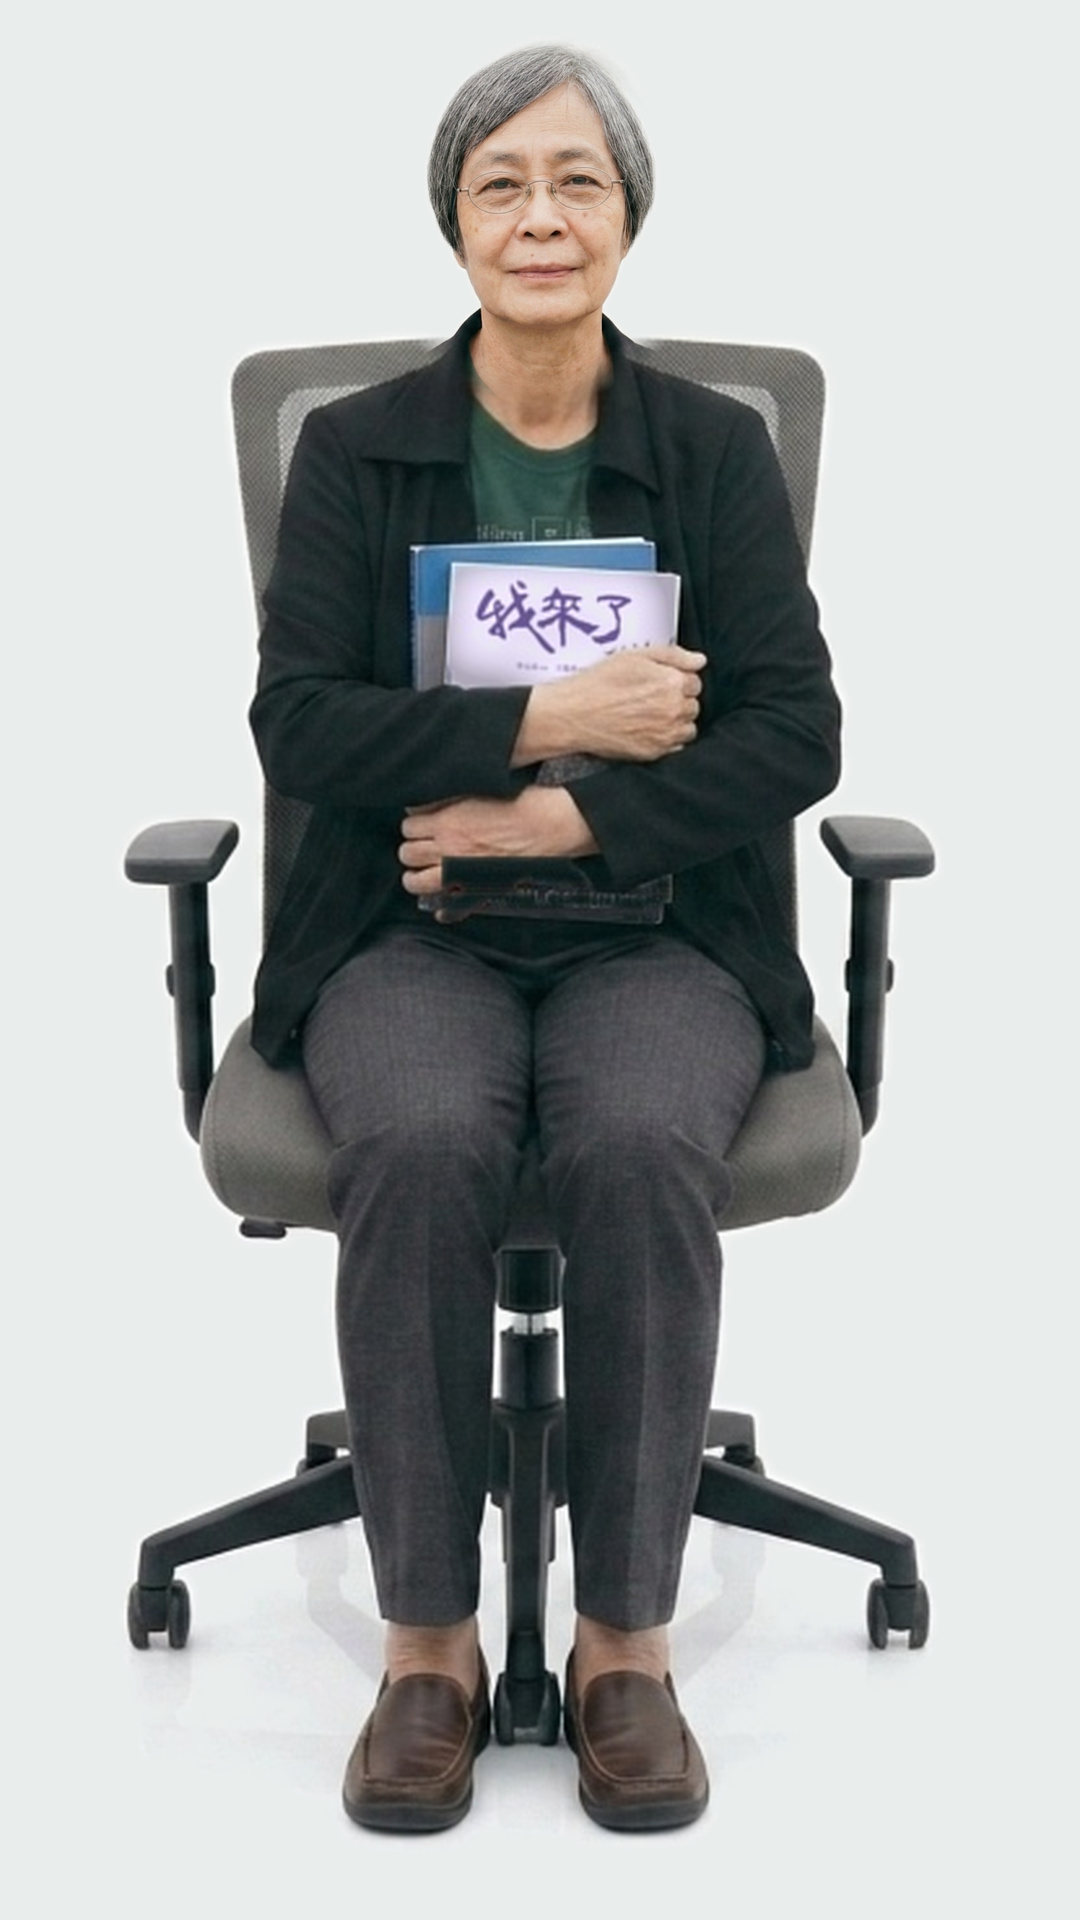
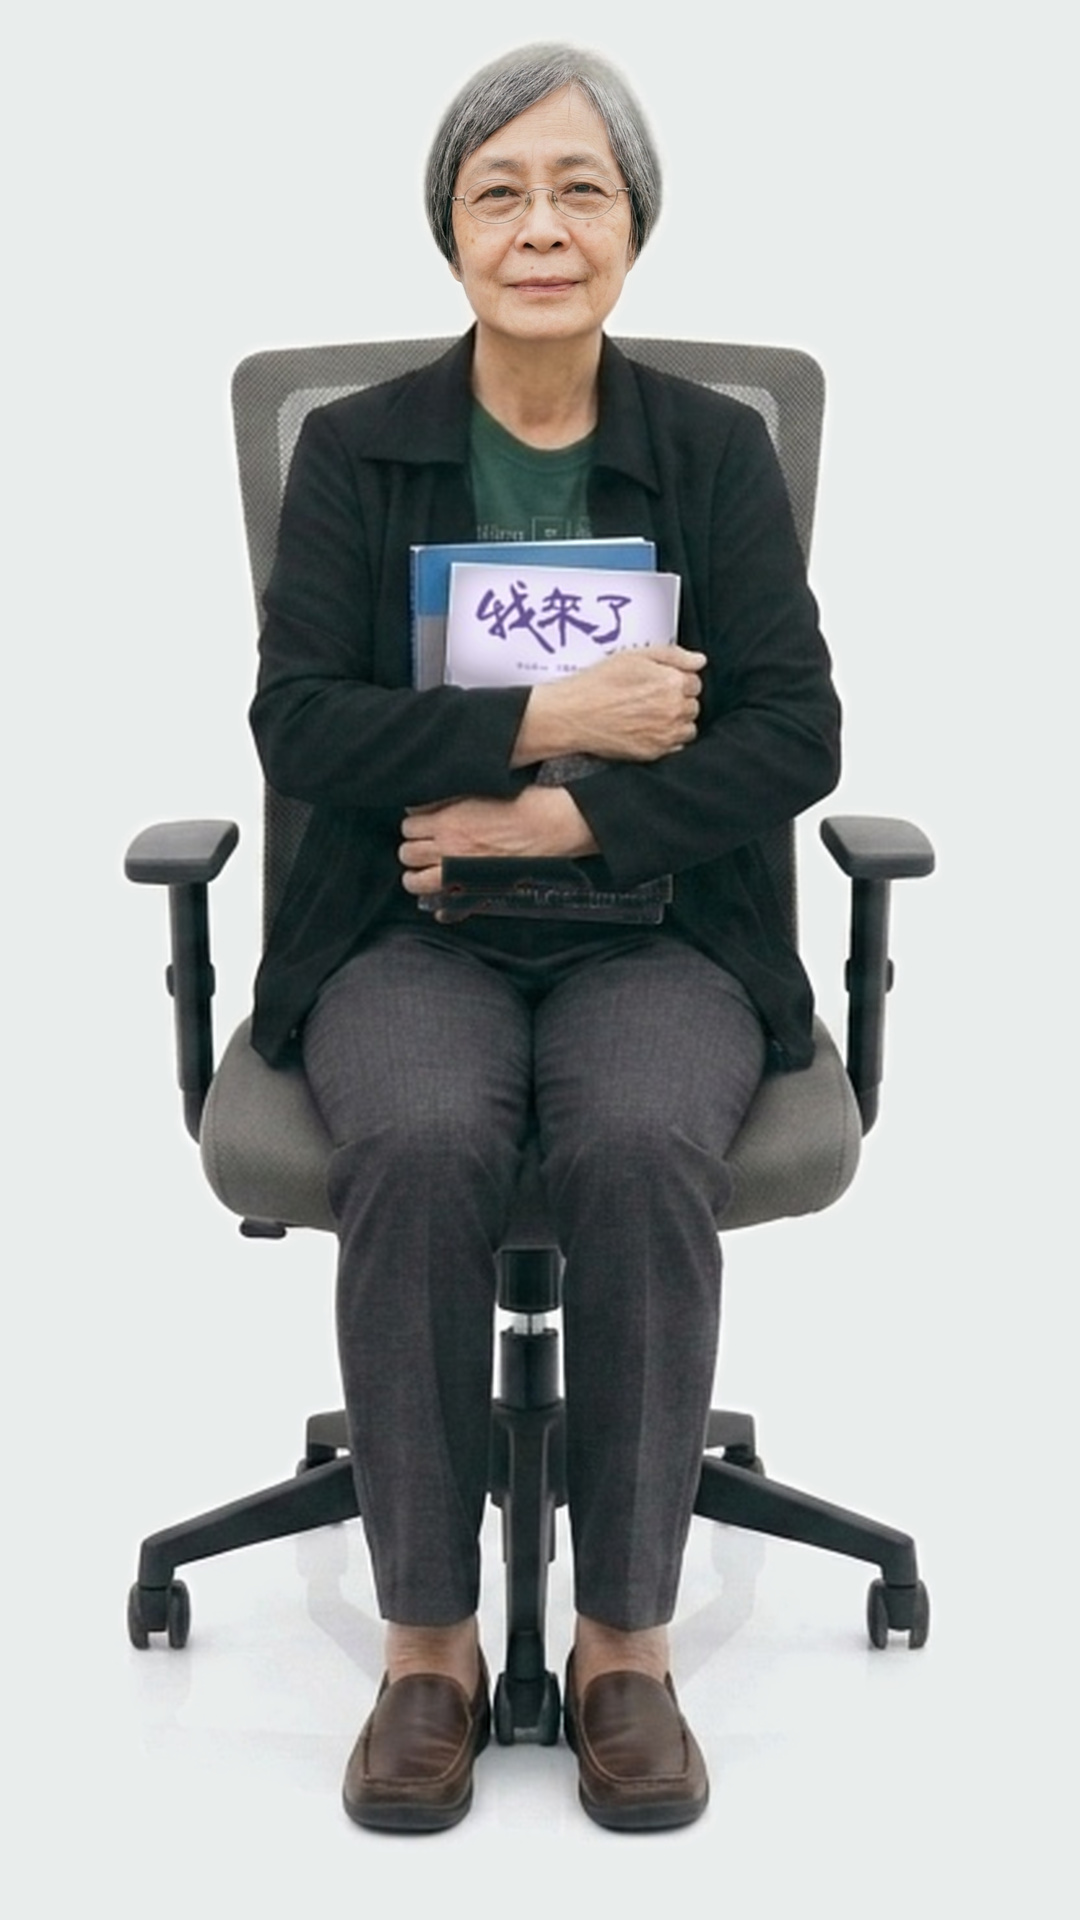
fix(live): 修掉脖子變細柱子與頭髮四周的光暈
兩個獨立的錯誤疊在一起。

1) 🔴 兩張圖量了不同的地標。照片層的縮放是把「照片的髮頂→脖子（584px）」
   對到「AI 的髮頂→**下巴**（101px × 2.596 = 262）」——一個量到脖子、一個
   量到下巴。結果照片的頭比 AI 的小 6%，AI 的頭髮比照片的頭大一圈，
   露在外面的部分被照片的背景蓋掉，畫面上就是頭髮四周一圈淺色光暈。
   改成兩邊都用「髮頂→脖子最窄處」：107 × 2.596 = 278。
   影片框跟著重算成 916.3×515.4 @ (75.7, 16.4)。

2) 🔴 橢圓太大，那圈過渡壓在衣領上。原本 121×136，r=1 的底邊在 y=351，
   加上烘焙的外圈一路到 y=405——而照片的衣領跟 AI 的衣領位置與形狀都不同，
   於是脖子被切成一根細柱子、兩側各一道硬邊。
   收成 106×128（底邊 y=328），脖子以下整段都是坐姿圖自己的，連得起來。
   烘焙外圈也從 1.15/1.40 收到 1.02/1.12，讓靜態過渡只落在臉頰與頭髮邊緣。

⚠ 橢圓不能再往上收：下巴在 y≈304，講話時下顎要跟著動，下巴落在 r>1
就會變成「嘴巴在動、下巴不動」。可動的窗口只有 304~328 這 24px。

Changed region(s): [[0.3972, 0.0312, 0.6111, 0.2188]]

diff --git a/components/avatar/full-body-stage.tsx b/components/avatar/full-body-stage.tsx
@@ -33,7 +33,12 @@ export const FULL_BODY_SRC = "/avatar-fullbody.jpg";
  * 串流（與串流接上前的 poster）在舞台框裡的位置，單位是舞台框的百分比。
  *
  * 底圖的頭部座標是這一切的基準（1080×1920）：
- *   頭頂 y=44、下巴 y=306、頭中心 x=541 → 頭高 262、臉中心 y=175
+ *   髮頂 y=44、脖子最窄處 y=322、頭中心 x=541 → 頭高 278、臉中心 y=183
+ *
+ * 🔴 **兩張圖一定要量同一組地標。** 前一版把「照片的髮頂→脖子（584px）」
+ * 對到「AI 的髮頂→**下巴**（101px）」，兩個不同的地標，結果照片的頭比 AI 的
+ * 小 6%——畫面上就是頭髮四周浮出一圈淺色光暈（AI 的頭髮比照片的頭大一圈，
+ * 露在外面的部分被照片的背景蓋掉了）。現在兩邊都用「髮頂→脖子最窄處」。
  *
  * 🔴 這四個數字是**實測串流本身**量出來的，不是照上傳照片推的。
  * 第一版照「臉置中、頭高佔 45%」推，實際接上去整顆頭高了 83px——
@@ -64,10 +69,10 @@ export const FULL_BODY_SRC = "/avatar-fullbody.jpg";
  * 椅子，那個處理已經移除。哪天改回下緣漸層，這個坑會回來。
  */
 export const STAGE_BOX = {
-  left: "9.44%",
-  top: "0.94%",
-  width: "80.04%",
-  height: "25.32%",
+  left: "7.01%",
+  top: "0.86%",
+  width: "84.85%",
+  height: "26.85%",
 } as const;
 
 /**
@@ -129,14 +134,22 @@ export const STAGE_BOX = {
  * 附帶好處：影片的不透明背景被橢圓擋在外面，不再抹掉椅背，所以底圖不必再
  * 挖掉椅子的上半截，椅背是完整的。
  *
- * 幾何（底圖 1080×1920 座標）：臉中心 (540, 215)、橢圓半徑 121 × 136，
- * r ≤ 0.7 全實心、r = 1 全透明。換算成影片框（864.4×486.2 @ 102,18）的百分比
- * 就是下面那組數字。換 avatar 或換底圖都要重算。
+ * 幾何（底圖 1080×1920 座標）：橢圓中心 (541, 200)、半徑 106 × 128，
+ * r ≤ 0.7 全實心、r = 1 全透明，r=1 的底邊落在 y=328。
+ * 換算成影片框（916.3×515.4 @ 75.7,16.4）的百分比就是下面那組數字。
  *
- * ⚠ 不要把橢圓放大到碰得到脖子以下：一碰到衣領就會把上面那三個問題全部叫回來。
+ * 🔴 **橢圓不可以往下長。** 前一版是 121×136（底邊 y=351），加上烘焙的外圈
+ * 一路到 y=405，於是那圈過渡壓在**衣領**上——照片的衣領跟 AI 的衣領位置、
+ * 形狀都不一樣，畫面上就是脖子變成一根細柱子、兩側各一道硬邊。
+ * 現在收到 y=328：脖子以下整段都是坐姿圖自己的，連得起來。
+ * ⚠ 但也不可以再往上收：下巴在 y≈304，講話時下顎要跟著動，
+ * 下巴一旦落在 r>1 就會變成「嘴巴在動、下巴不動」。可動的窗口只有這 24px。
+ *
+ * ⚠ 烘焙的外圈也收緊了（1.15/1.40 → 1.02/1.12）。外圈越寬，靜態的
+ * 照片↔AI 過渡就跨過越多不一樣的東西；收緊之後它只落在臉頰與頭髮邊緣上。
  */
 export const STAGE_MASK =
-  "radial-gradient(ellipse 14% 28% at 50.7% 40.5%, #000 0%, #000 70%, transparent 100%)";
+  "radial-gradient(ellipse 11.57% 24.83% at 50.78% 35.61%, #000 0%, #000 70%, transparent 100%)";
 
 /**
  * 背景色：串流實測是 rgb(233,237,236)。
